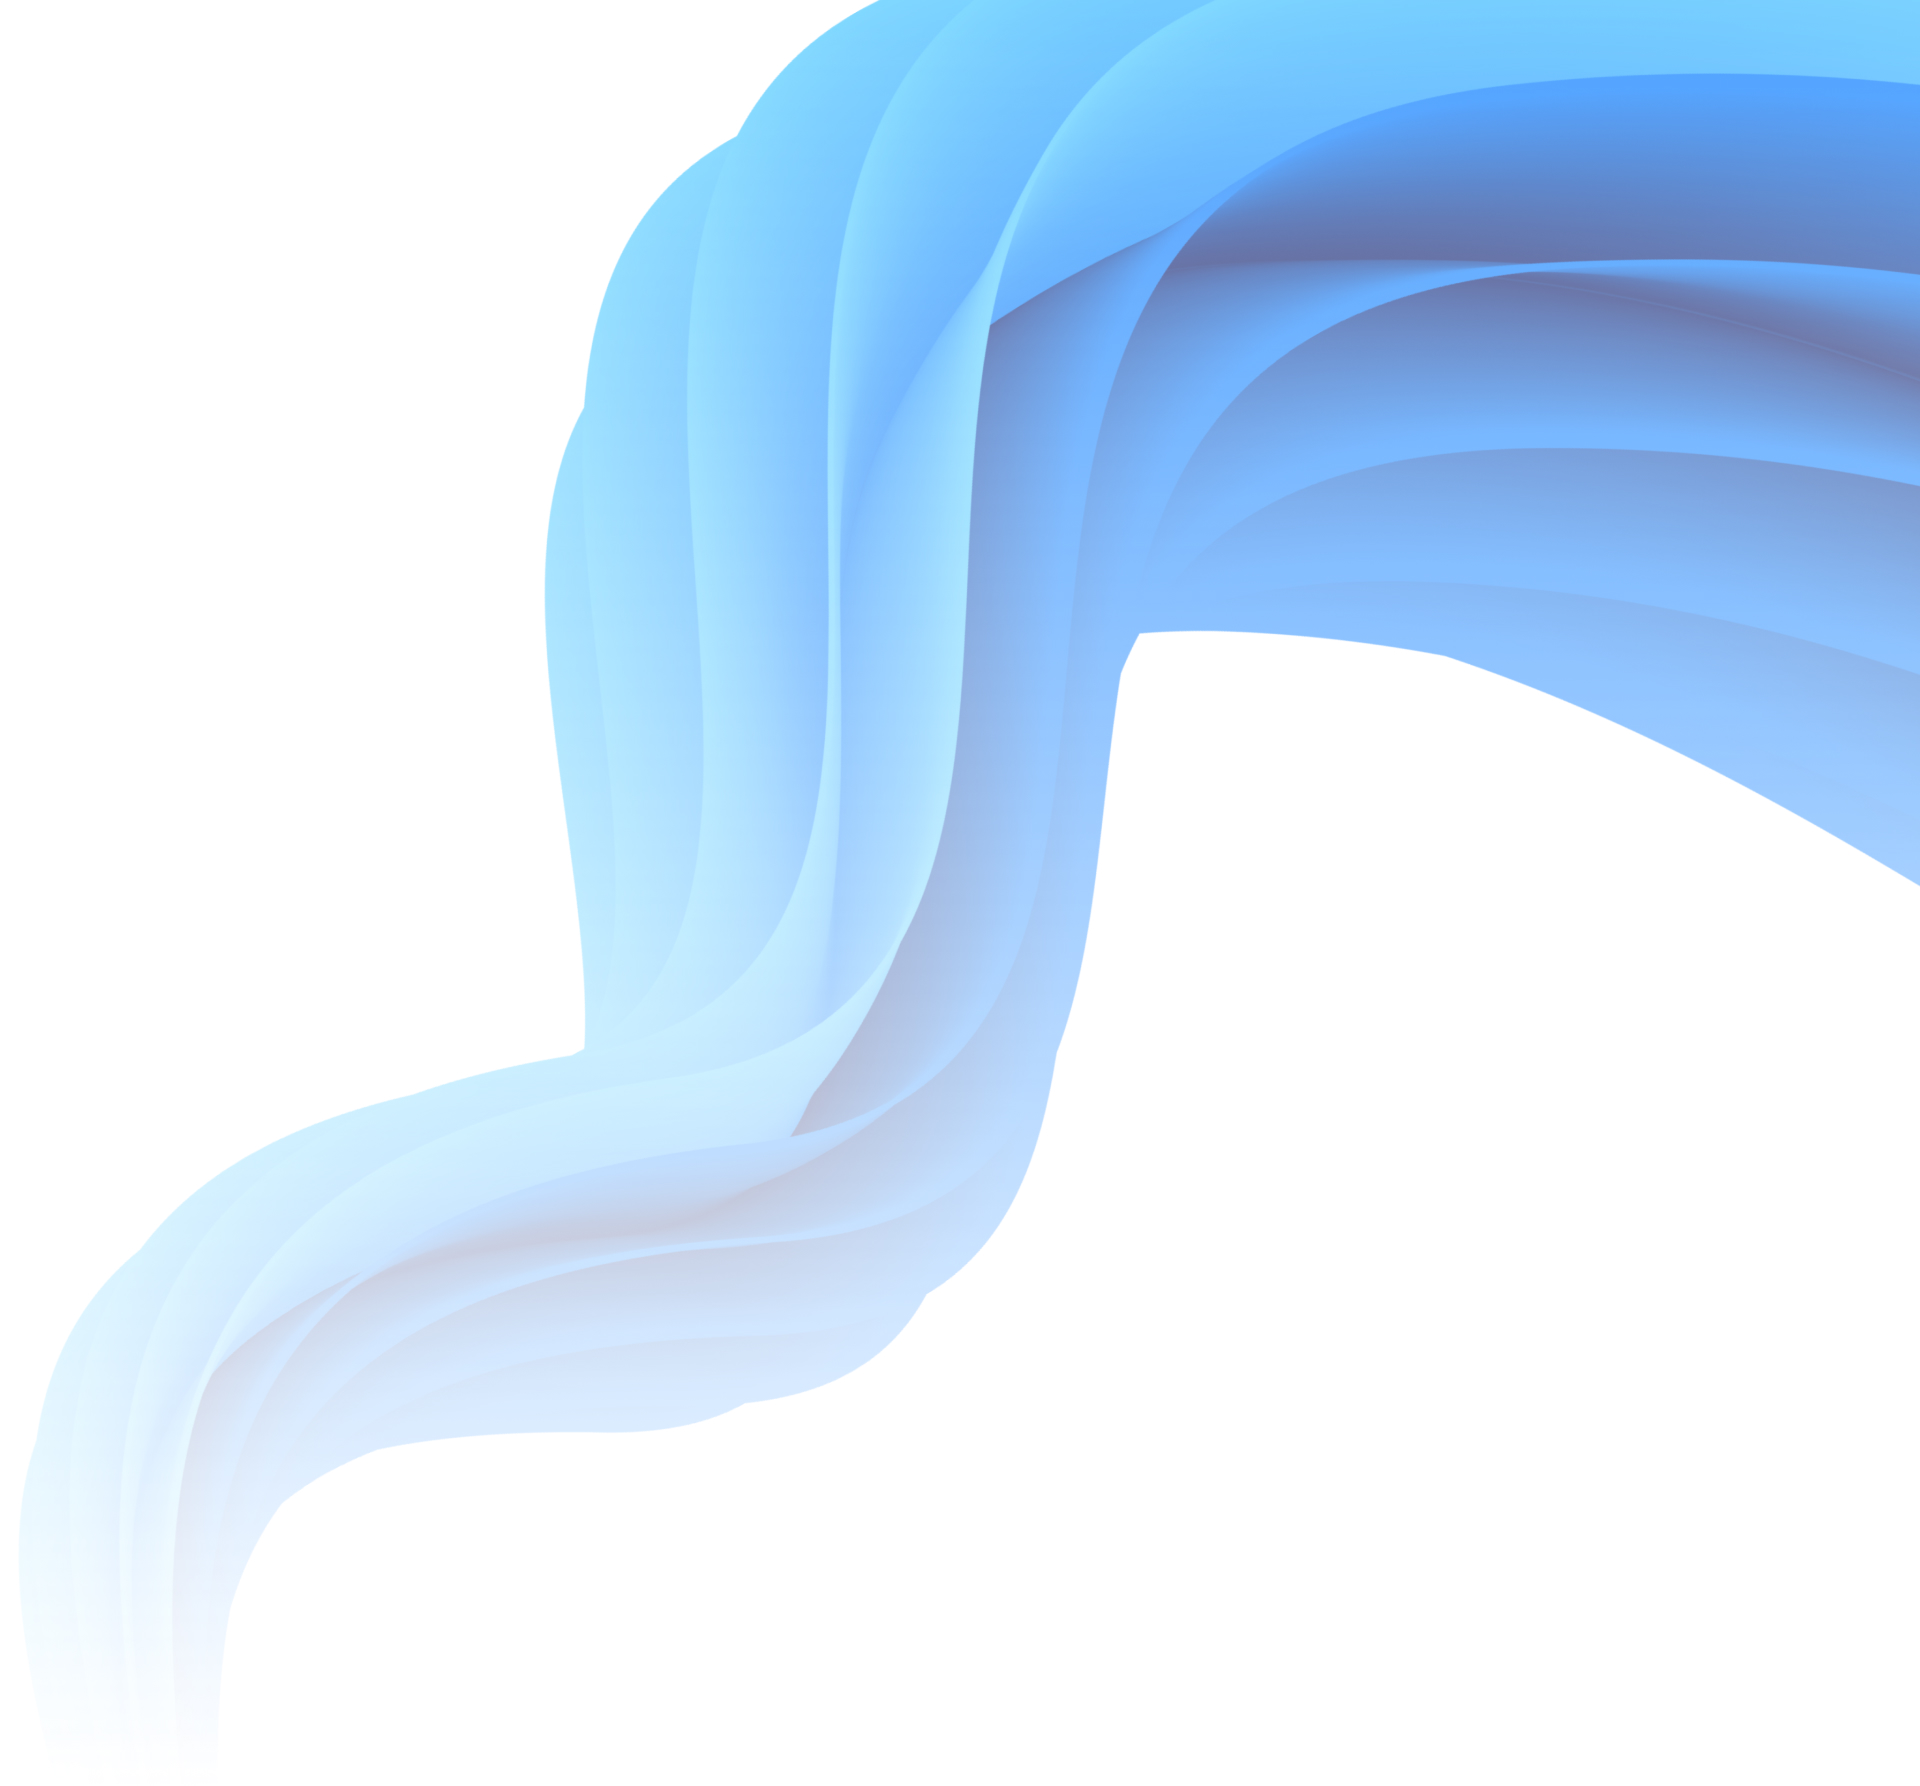
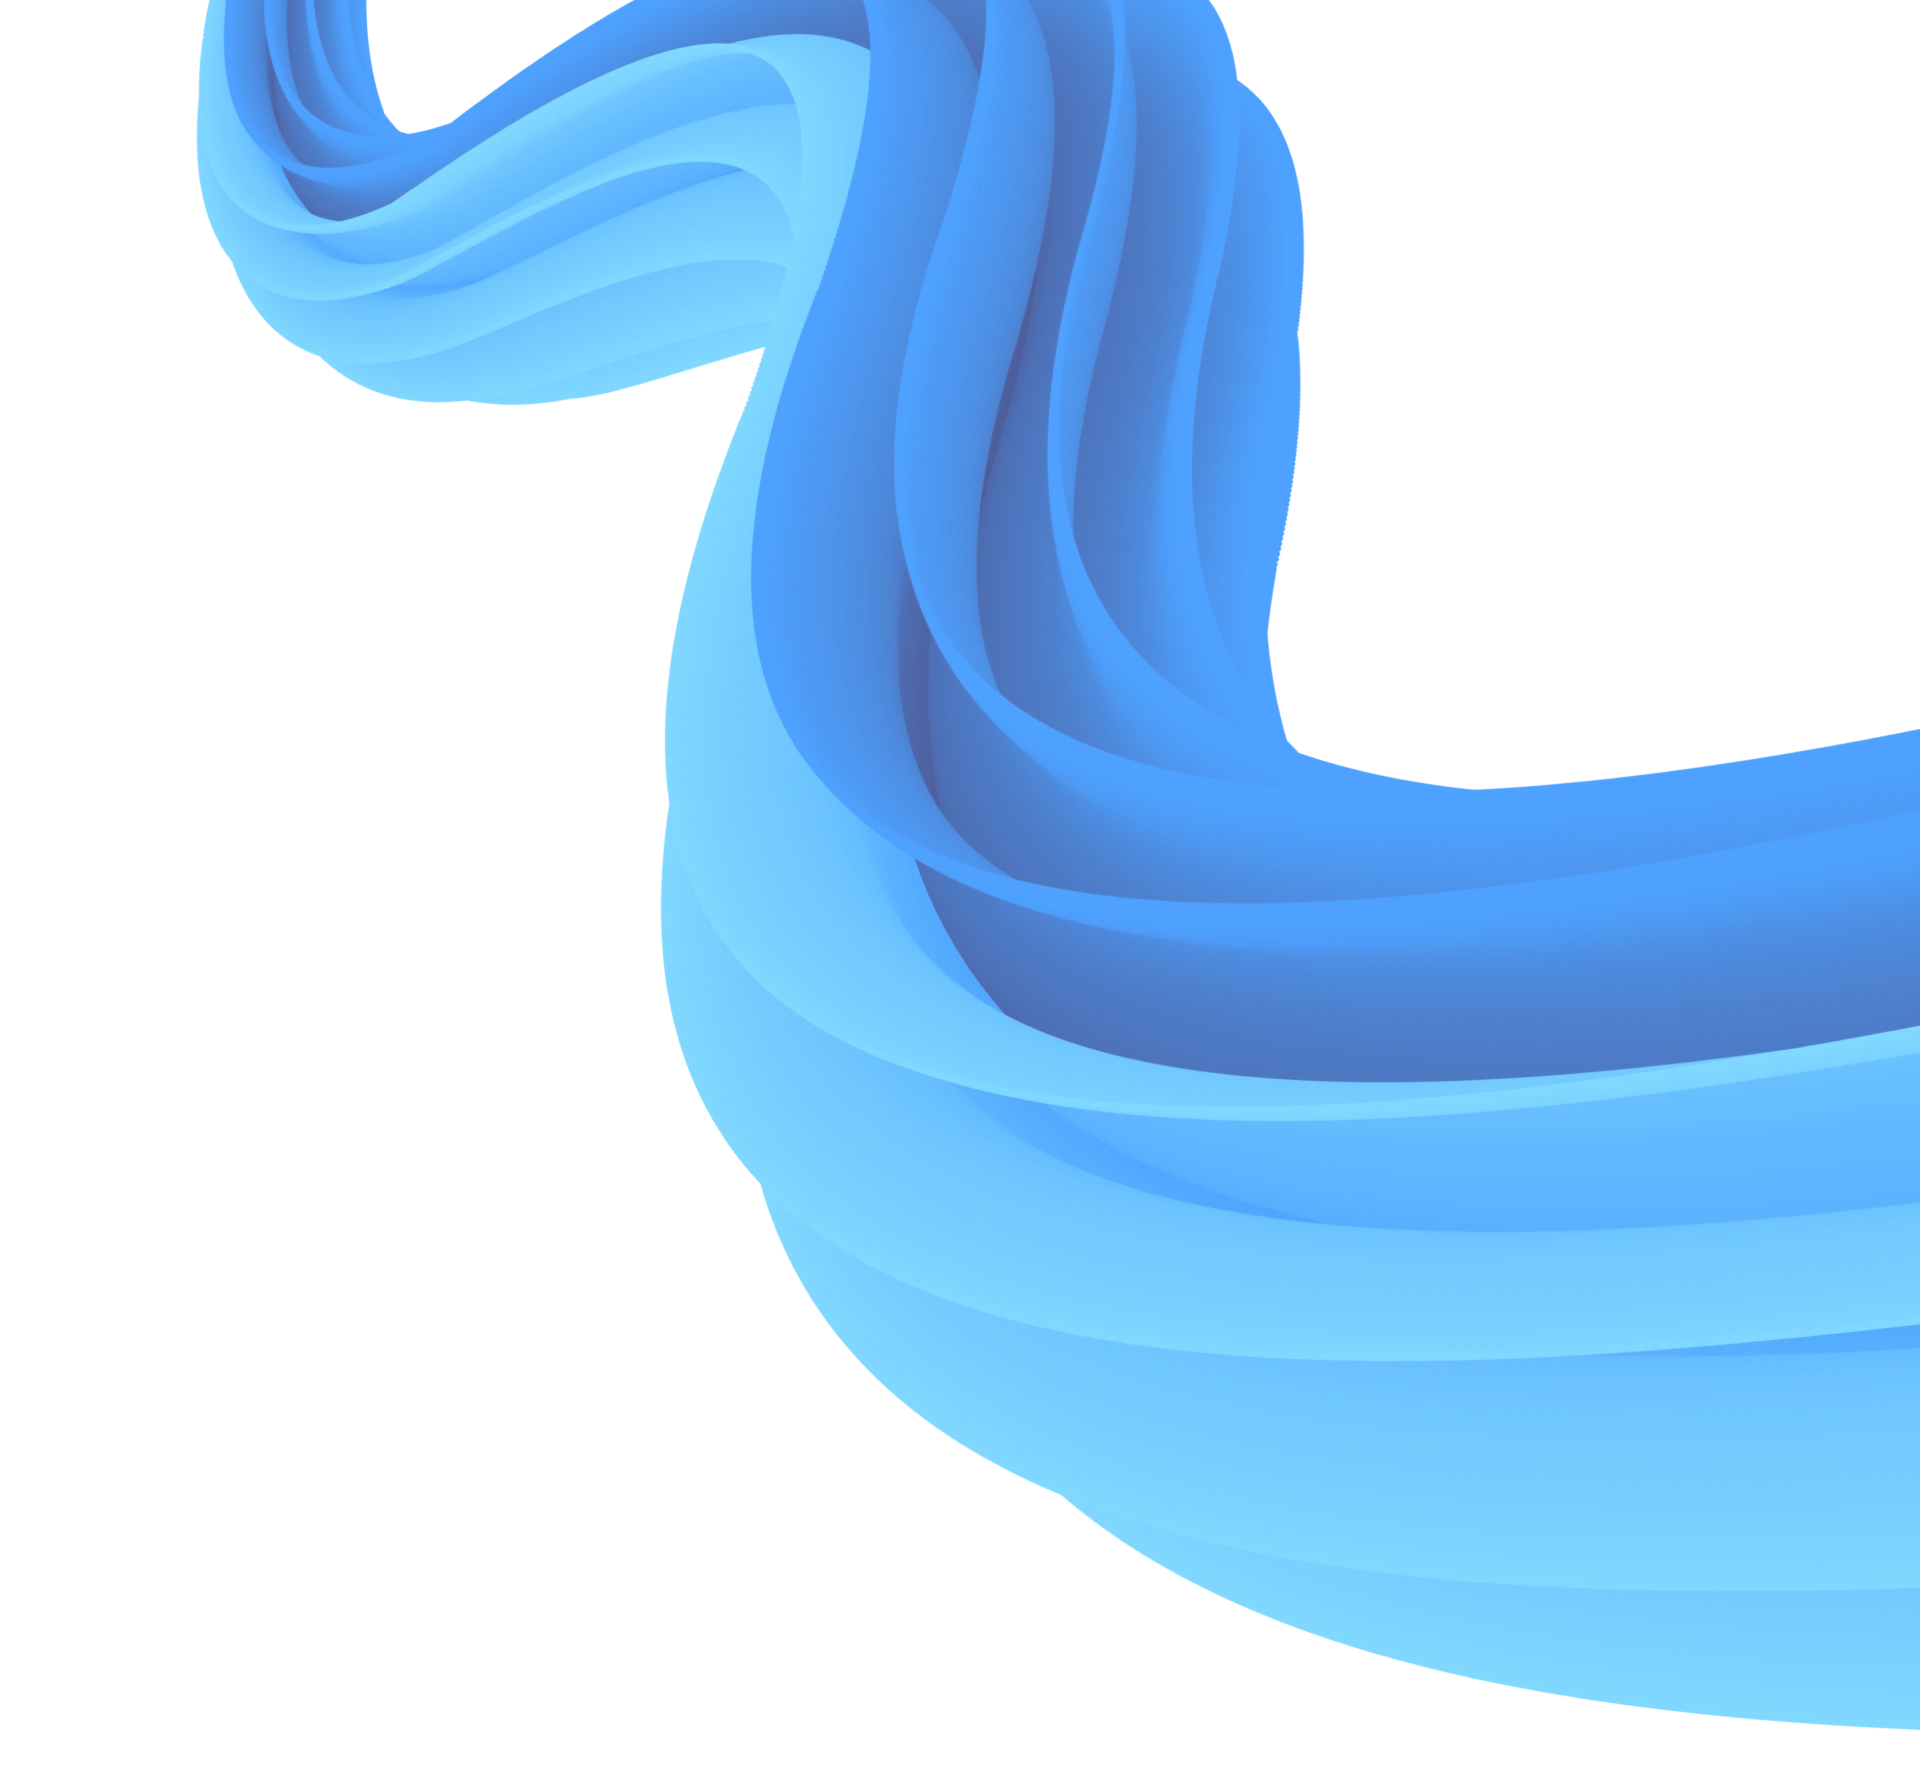
service page hero section changes

diff --git a/src/includes/services/shopware/hero-development.html b/src/includes/services/shopware/hero-development.html
@@ -1,4 +1,4 @@
-<section class="hero pt-60 relative">
+<section class="hero pt-60 pb-60 relative">
     <div class="container relative z-1">
         <div class="flex align-start justify-between md:wrap">
             <div class="col w-50 md:w-100">
@@ -19,13 +19,10 @@
             </div>
         </div>
     </div>
-    <div class="bg-shape absolute z-0 right-0 top-0 w-60  h-px-500 md:w-80">
-        <picture class="shape w-100 absolute -top-10">
-            <source srcset="assets/img/service-bg.webp 1x, assets/img/service-bg 2x" media="(min-width: 768px)" type="image/webp">
-            <source srcset="assets/img/service-bgg.webp 1x, assets/img/service-bg.webp 2x" media="(max-width: 767px)" type="image/webp">
-            <source srcset="assets/img/service-bg.jpg 1x, assets/img/service-bg2x.jpg 2x" media="(min-width: 768px)" type="image/jpg">
-            <source srcset="assets/img/service-bg.jpg 1x, assets/img/service-bg.jpg 2x" media="(max-width: 767px)" type="image/jpg">
-            <img src="assets/img/service-bg.jpg " alt="shopware" width="100" height="100">
+    <div class="bg-shape h-100 pb-0 overflow-hidden absolute z-0 right-0 top-0 w-50">
+        <picture class="shape absolute -top-10">
+            <source srcset="assets/img/service-bg.webp" type="image/jpg">
+            <img src="assets/img/service-bg.png" alt="shopware" width="100" height="100">
         </picture>
-    </div>
-</section>
+    </div> 
+</section>  

diff --git a/fragments/services/detail/shopware-development/content-with-form.php b/fragments/services/detail/shopware-development/content-with-form.php
@@ -2,7 +2,7 @@
 
 <?php $review_rating = get_field('reviews', 'options'); ?>
 <?php $bg_class = $bg_enabled ? 'bg-light-grey pt-100 pb-100 xs:pt-80 xs:pb-80' : 'bg-white'; ?>
-<section class="hero pt-60 relative <?php echo $bg_class; ?>">
+<section class="hero pt-60 pb-100 xs:pb-80 relative <?php echo $bg_class; ?>">
     <div class="container relative z-1">
         <div class="flex align-start justify-between md:wrap">
             <div class="col w-50 md:w-100">
@@ -111,7 +111,7 @@
             </div>
             <?php if ($consultant['name'] || $form_selector) { ?>
             <div class="col w-40 md:w-100 md:mt-40">
-                <div class="consultation-wrap b-1 bc-hash solid bg-white p-50 xs:p-30 shadow-rating">
+                <div class="consultation-wrap bg-white p-50 xs:p-30 shadow-rating">
                     <h3 class="uppercase h4"><?php echo $form_title; ?></h3>
 
                     <p><?php echo $form_description; ?></p>
@@ -148,13 +148,13 @@
             <?php } ?>
         </div>
     </div>
-    <div class="bg-shape absolute z-0 right-0 top-0 w-60  h-px-500 md:w-80">
-        <picture class="shape w-100 absolute -top-10">
-            <source srcset="<?php echo get_template_directory_uri(); ?>/dist/assets/img/shapes/shopware-bg.webp 1x, <?php echo get_template_directory_uri(); ?>/dist/assets/img/shapes/shopware-bg2x.webp 2x" media="(min-width: 768px)" type="image/webp">
-            <source srcset="<?php echo get_template_directory_uri(); ?>/dist/assets/img/shapes/shopware-bg-mobile.webp 1x, <?php echo get_template_directory_uri(); ?>/dist/assets/img/shapes/shopware-bg-mobile.webp 2x" media="(max-width: 767px)" type="image/webp">
-            <source srcset="<?php echo get_template_directory_uri(); ?>/dist/assets/img/shapes/shopware-bg.jpg 1x, <?php echo get_template_directory_uri(); ?>/dist/assets/img/shapes/shopware-bg2x.jpg 2x" media="(min-width: 768px)" type="image/jpg">
-            <source srcset="<?php echo get_template_directory_uri(); ?>/dist/assets/img/shapes/shopware-bg-mobile.jpg 1x, <?php echo get_template_directory_uri(); ?>/dist/assets/img/shapes/shopware-bg-mobile.jpg 2x" media="(max-width: 767px)" type="image/jpg">
-            <img src="<?php echo get_template_directory_uri(); ?>/dist/assets/img/shapes/shopware-bg.jpg" alt="shopware" width="100" height="100">
+    <div class="bg-shape h-100 pb-0 overflow-hidden absolute z-0 right-0 top-0 w-50">
+        <picture class="shape absolute -top-10">
+            <source srcset="<?php echo get_template_directory_uri(); ?>/dist/assets/img/service-bg.webp 1x, <?php echo get_template_directory_uri(); ?>/dist/assets/img/service-bg.webp 2x" media="(min-width: 768px)" type="image/webp">
+            <source srcset="<?php echo get_template_directory_uri(); ?>/dist/assets/img/service-bg.webp 1x, <?php echo get_template_directory_uri(); ?>/dist/assets/img/service-bg.webp 2x" media="(max-width: 767px)" type="image/webp">
+            <source srcset="<?php echo get_template_directory_uri(); ?>/dist/assets/img/service-bg.jpg 1x, <?php echo get_template_directory_uri(); ?>/dist/assets/img/service-bg.jpg 2x" media="(min-width: 768px)" type="image/jpg">
+            <source srcset="<?php echo get_template_directory_uri(); ?>/dist/assets/img/service-bg.jpg 1x, <?php echo get_template_directory_uri(); ?>/dist/assets/img/service-bg.jpg 2x" media="(max-width: 767px)" type="image/jpg">
+            <img src="<?php echo get_template_directory_uri(); ?>/dist/assets/img/service-bg.jpg" alt="shopware" width="100" height="100">
         </picture>
     </div>
-</section>
+</section> 
